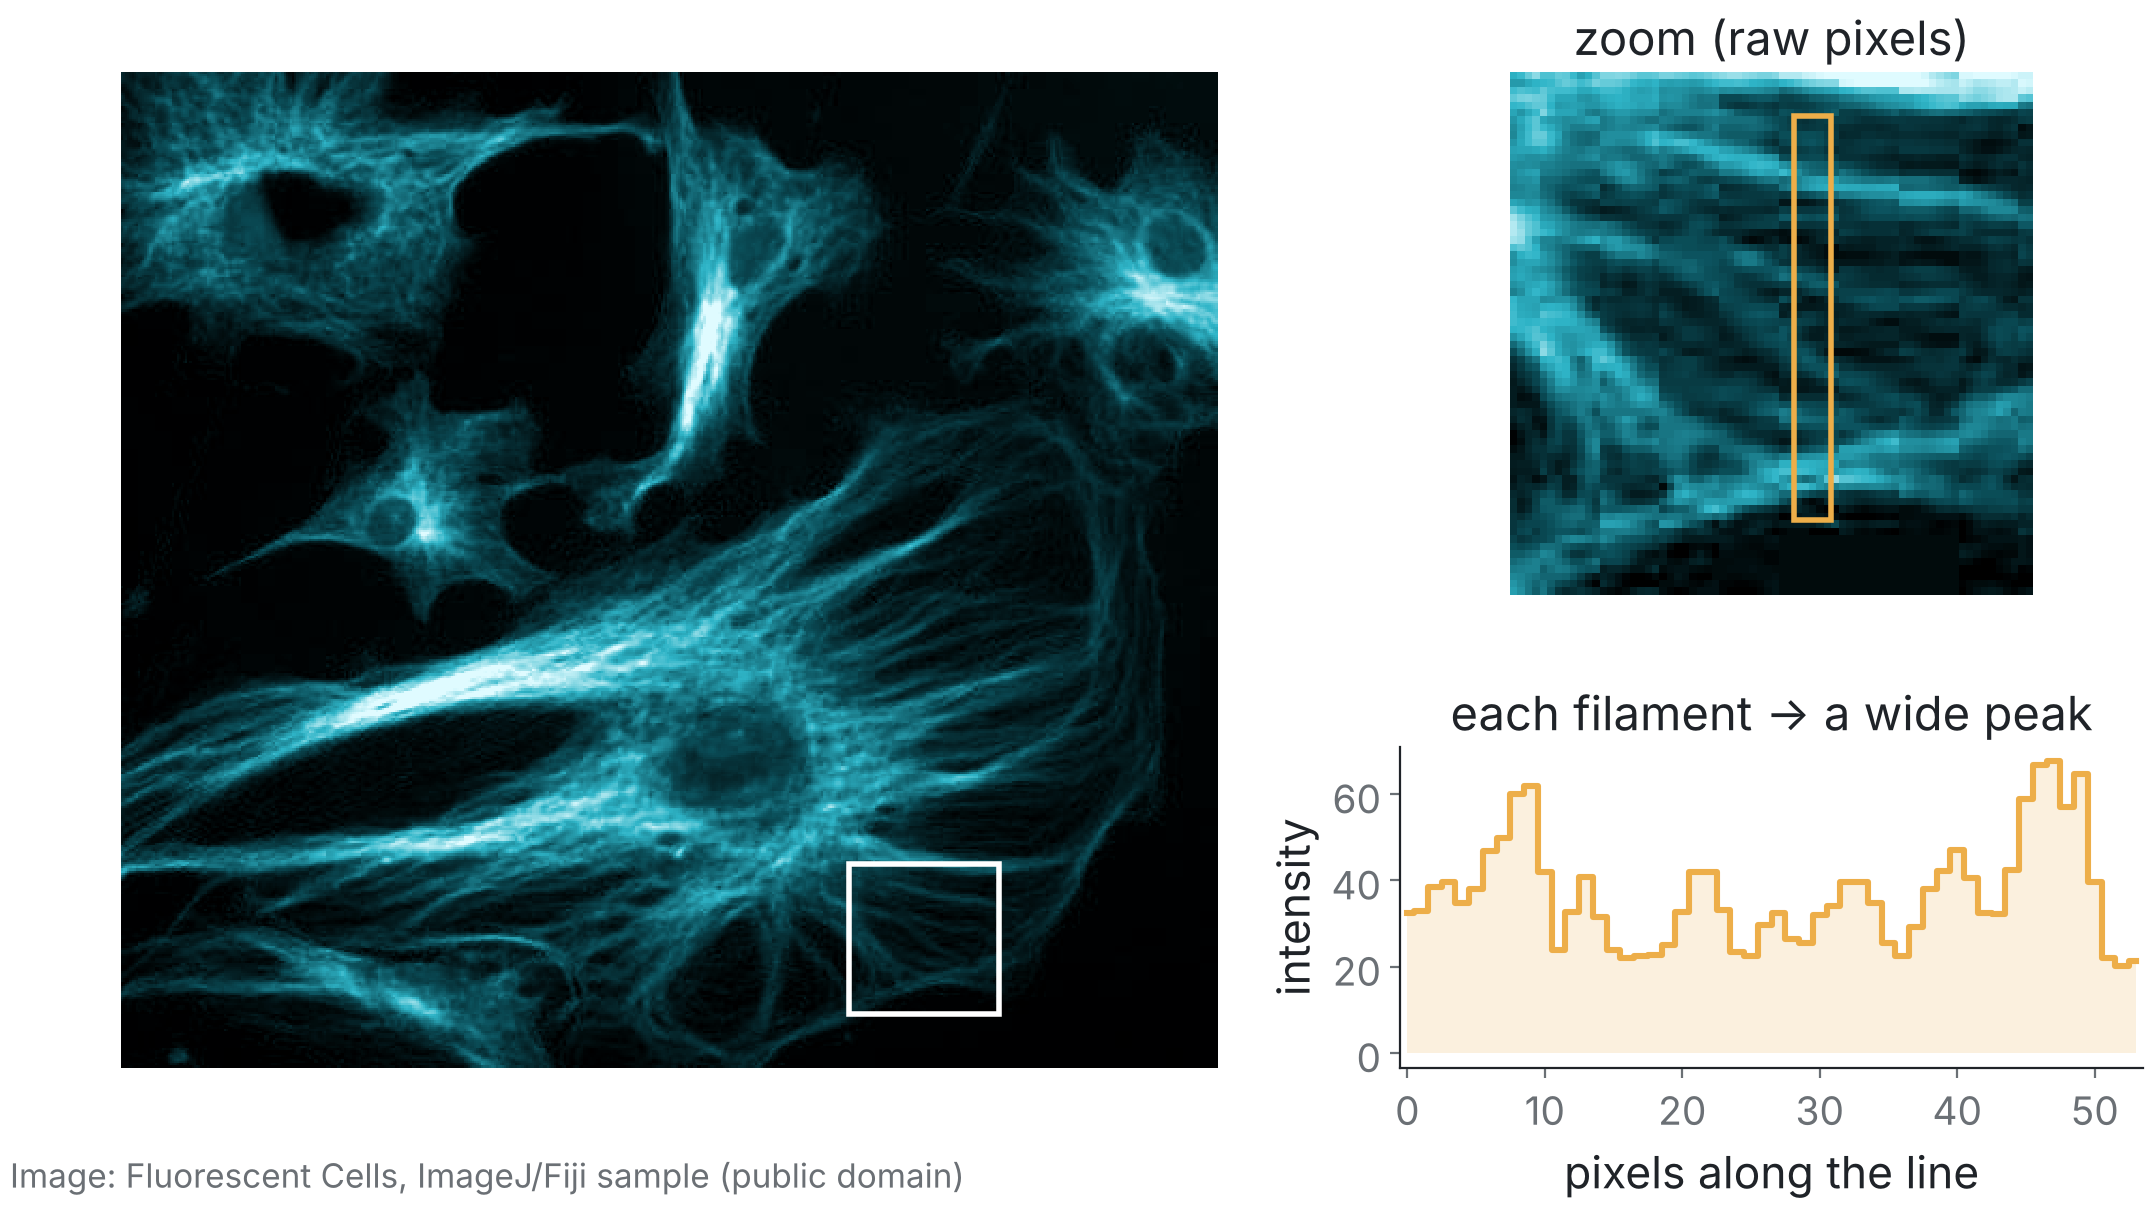
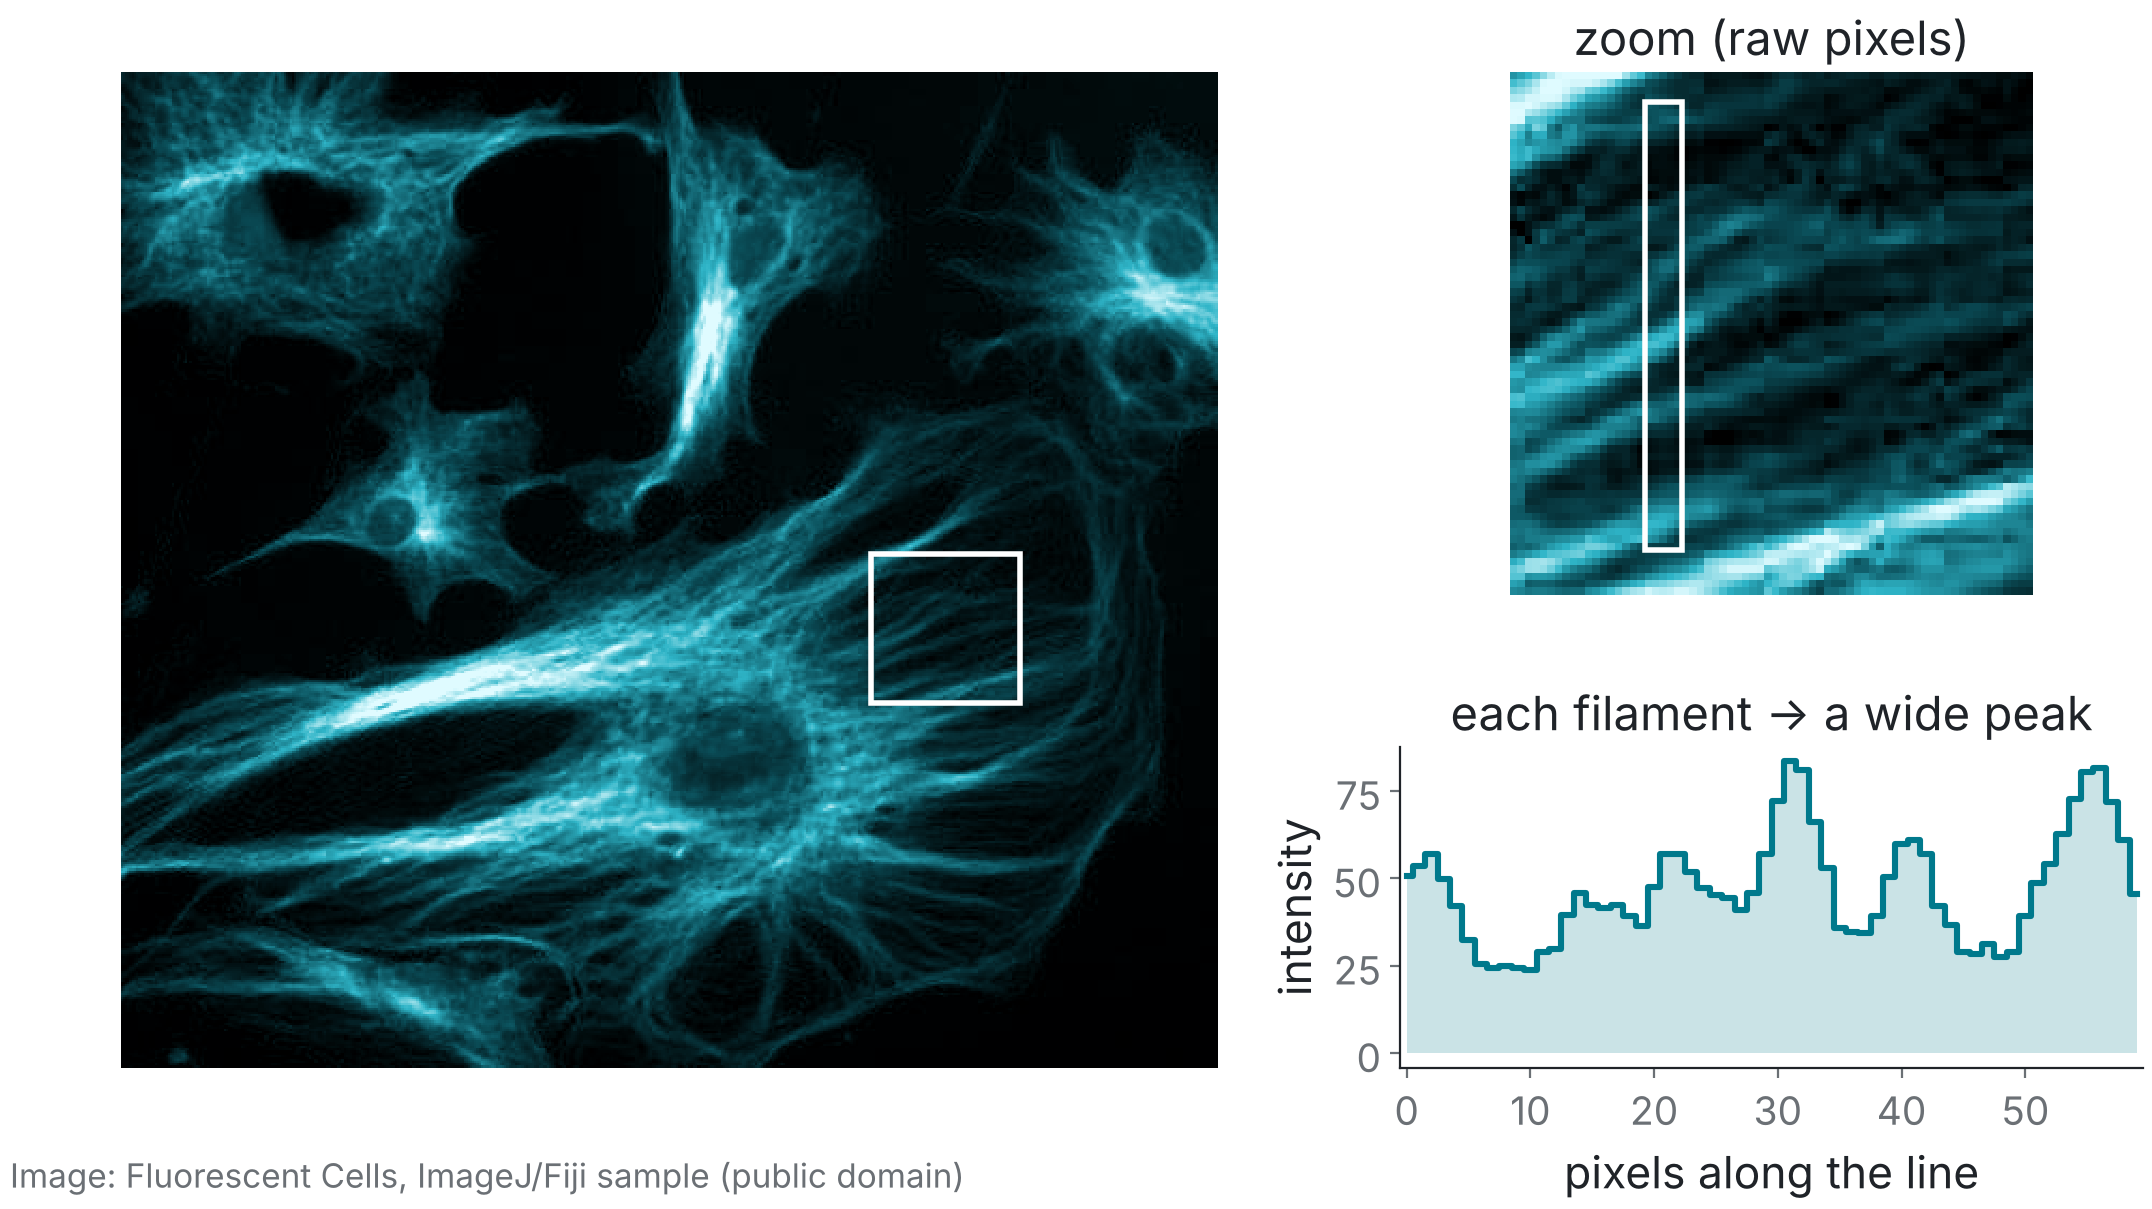
Biologist slide: zoom at x=350, y=225; teal intensity profile
Claude-Session: https://claude.ai/code/session_013q9SX9yawimzkdwafhuqyy

diff --git a/figures/make_figures.py b/figures/make_figures.py
@@ -222,8 +222,8 @@ def airy():
 MICROTUBULE_SOURCES = {
     "FluorescentCells": dict(           # Fiji › File › Open Samples › Fluorescent Cells, tubulin channel
         crop=(0, 465, 0, 512),           # drops Fiji's burned-in "Press 'I' (Image>Show Info)…" overlay
-        zoom=(370, 340, 70),
-        profile=dict(col=40, rows=(6, 60), width=5),   # vertical line in zoom coordinates, crossing ~7 filaments
+        zoom=(225, 350, 70),                           # Fiji x=350, y=225: parallel filaments, upper right of the big cell
+        profile=dict(col=20, rows=(4, 64), width=5),   # vertical line in zoom coordinates, crossing ~6 filaments
         credit="Image: Fluorescent Cells, ImageJ/Fiji sample (public domain)",
     ),
     "Vindin": dict(
@@ -292,15 +292,15 @@ def biologist():
     zlo, zhi = np.percentile(z_raw, 1), np.percentile(z_raw, 99.5)  # contrast set within the zoom
     ax_z.imshow(np.clip((z_raw - zlo) / (zhi - zlo), 0, 1), cmap=CYAN, interpolation="nearest")
     c, (p0, p1), pw = prof["col"], prof["rows"], prof["width"]
-    ax_z.add_patch(plt.Rectangle((c - pw / 2, p0 - 0.5), pw, p1 - p0, fill=False, ec=YELLOW, lw=2))
+    ax_z.add_patch(plt.Rectangle((c - pw / 2, p0 - 0.5), pw, p1 - p0, fill=False, ec="white", lw=2))
     for ax in (ax_o, ax_z):
         _clean(ax)
     ax_z.set_title("zoom (raw pixels)", fontsize=17, color=INK)
 
     values = z_raw[p0:p1, c - pw // 2:c + pw // 2 + 1].mean(axis=1)
     pos = np.arange(p0, p1) - p0
-    ax_p.step(pos, values, where="mid", color=YELLOW, lw=2.2)
-    ax_p.fill_between(pos, values, step="mid", color=YELLOW, alpha=0.18, lw=0)
+    ax_p.step(pos, values, where="mid", color=TEAL, lw=2.2)          # biology island colour
+    ax_p.fill_between(pos, values, step="mid", color=TEAL_L, alpha=0.25, lw=0)
     ax_p.set_xlim(pos[0] - 0.5, pos[-1] + 0.5)
     ax_p.set_xlabel("pixels along the line", fontsize=16)
     ax_p.set_ylabel("intensity", fontsize=16)

diff --git a/CONTEXT.md b/CONTEXT.md
@@ -102,6 +102,8 @@ Last updated: 2026-11-02.
 
 - **2026-11-09:** Biologist figure switched to the TIFF (`C2-FluorescentCells.tif`, which is pixel-identical to the PNG it replaces). All panels show raw pixels with no interpolation. Added an intensity profile along a 5-px-wide vertical line in the zoom, which crosses about 7 filaments, each a peak several pixels wide. Profile x-axis is in pixels, since the image has no calibration.
 
+- **2026-11-09:** Zoom moved to Fiji x=350, y=225 (70 px), where parallel filaments sit in the upper right of the big cell. The profile line is at column 20 of the zoom and crosses about 6 filaments. The profile is drawn in teal (biology island) and its marker in white.
+
 ## 5. Open items / to confirm with speaker
 - Rehearse and check timing (20 min)
 - Working Group logistics: sign-up channel and meeting point at the conference
